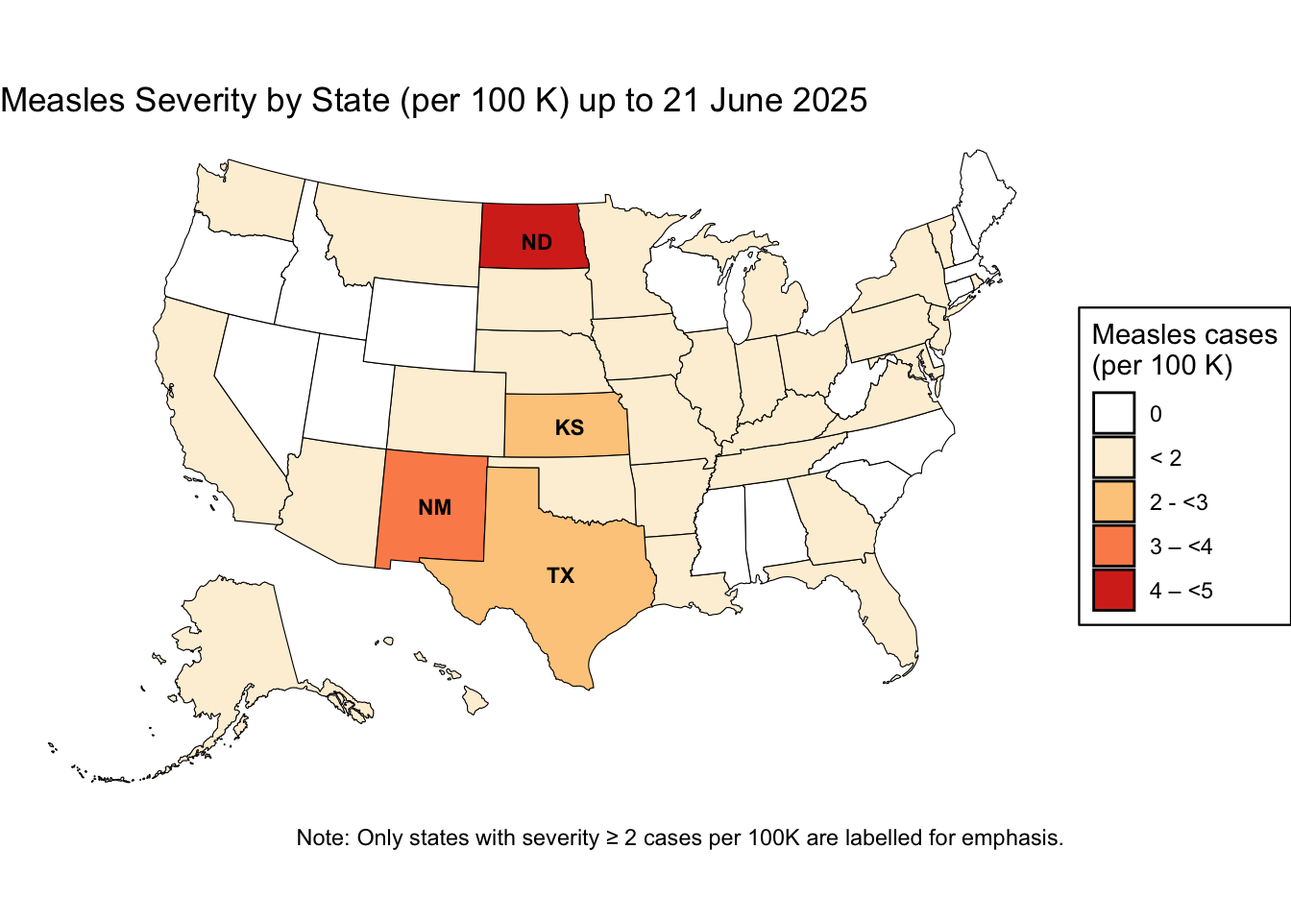
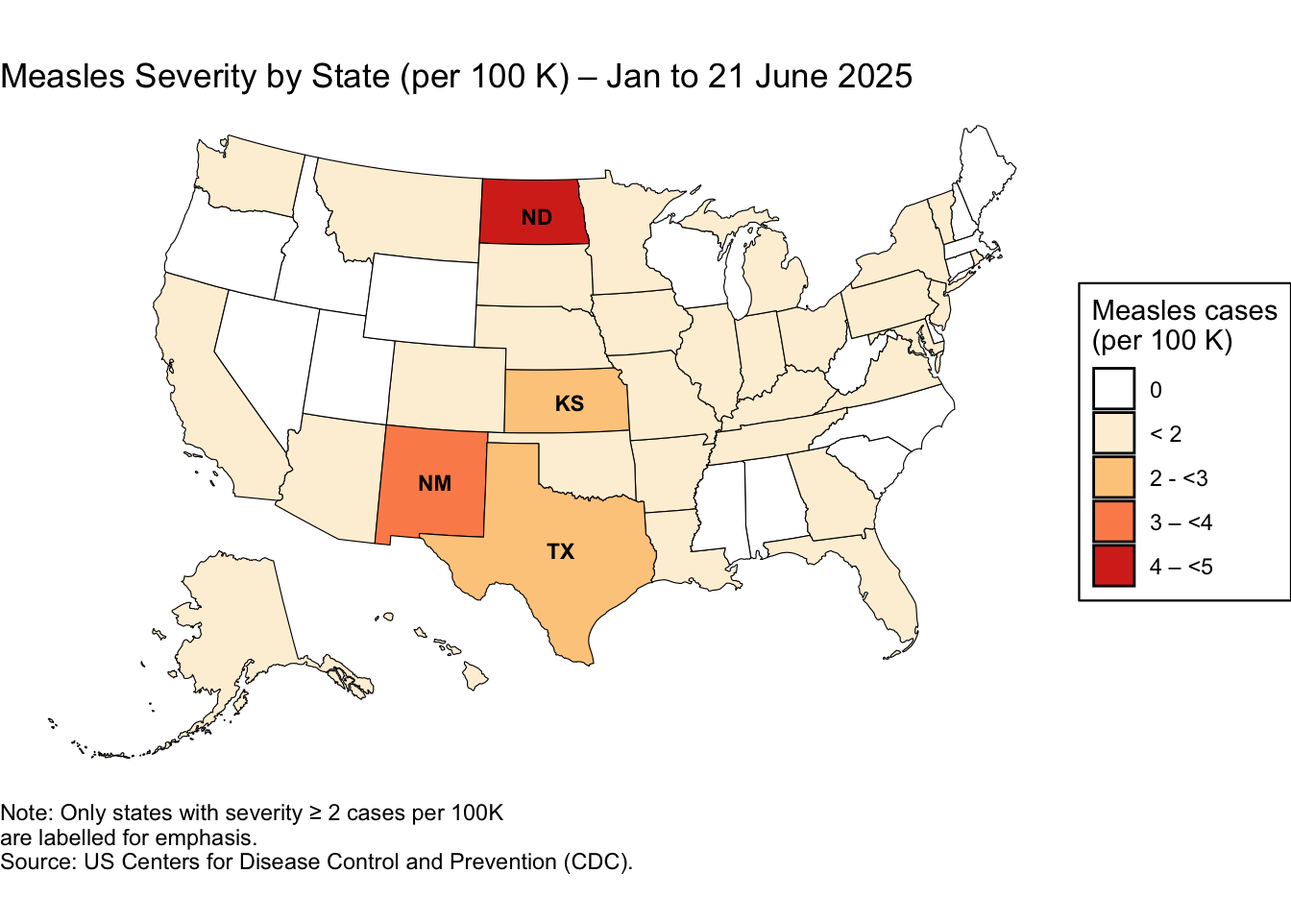
fix: styled and linted

diff --git a/moccasin.html b/moccasin.html
@@ -130,7 +130,7 @@ pre > code.sourceCode > span > a:first-child::before { text-decoration: underlin
 <span id="cb3-4"><a href="#cb3-4" aria-hidden="true" tabindex="-1"></a><span class="fu">library</span>(stringr)</span></code><button title="Copy to Clipboard" class="code-copy-button"><i class="bi"></i></button></pre></div>
 </div>
 <div class="cell">
-<div class="sourceCode cell-code" id="cb4"><pre class="sourceCode r code-with-copy"><code class="sourceCode r"><span id="cb4-1"><a href="#cb4-1" aria-hidden="true" tabindex="-1"></a><span class="fu">library</span>(tidyverse)   <span class="co"># dplyr, readr, stringr, …</span></span>
+<div class="sourceCode cell-code" id="cb4"><pre class="sourceCode r code-with-copy"><code class="sourceCode r"><span id="cb4-1"><a href="#cb4-1" aria-hidden="true" tabindex="-1"></a><span class="fu">library</span>(tidyverse) <span class="co"># dplyr, readr, stringr, …</span></span>
 <span id="cb4-2"><a href="#cb4-2" aria-hidden="true" tabindex="-1"></a><span class="fu">library</span>(readxl)</span>
 <span id="cb4-3"><a href="#cb4-3" aria-hidden="true" tabindex="-1"></a><span class="fu">library</span>(janitor)</span>
 <span id="cb4-4"><a href="#cb4-4" aria-hidden="true" tabindex="-1"></a></span>
@@ -144,46 +144,49 @@ pre > code.sourceCode > span > a:first-child::before { text-decoration: underlin
 <span id="cb4-12"><a href="#cb4-12" aria-hidden="true" tabindex="-1"></a><span class="do">## 2 ── Population ----------------------------------------------------------</span></span>
 <span id="cb4-13"><a href="#cb4-13" aria-hidden="true" tabindex="-1"></a>pop_raw <span class="ot">&lt;-</span></span>
 <span id="cb4-14"><a href="#cb4-14" aria-hidden="true" tabindex="-1"></a>  <span class="fu">read_excel</span>(<span class="st">"SCPRC-EST2024-18+POP.xlsx"</span>,</span>
-<span id="cb4-15"><a href="#cb4-15" aria-hidden="true" tabindex="-1"></a>             <span class="at">skip      =</span> <span class="dv">4</span>,</span>
-<span id="cb4-16"><a href="#cb4-16" aria-hidden="true" tabindex="-1"></a>             <span class="at">col_names =</span> <span class="cn">FALSE</span>)</span>
-<span id="cb4-17"><a href="#cb4-17" aria-hidden="true" tabindex="-1"></a></span>
-<span id="cb4-18"><a href="#cb4-18" aria-hidden="true" tabindex="-1"></a>population_df <span class="ot">&lt;-</span></span>
-<span id="cb4-19"><a href="#cb4-19" aria-hidden="true" tabindex="-1"></a>  <span class="fu">tibble</span>(</span>
-<span id="cb4-20"><a href="#cb4-20" aria-hidden="true" tabindex="-1"></a>    <span class="at">state      =</span> <span class="fu">str_trim</span>(<span class="fu">str_remove</span>(pop_raw[[<span class="dv">1</span>]], <span class="st">"^</span><span class="sc">\\</span><span class="st">.+"</span>)),</span>
-<span id="cb4-21"><a href="#cb4-21" aria-hidden="true" tabindex="-1"></a>    <span class="at">population =</span> <span class="fu">as.numeric</span>(pop_raw[[<span class="dv">2</span>]])</span>
-<span id="cb4-22"><a href="#cb4-22" aria-hidden="true" tabindex="-1"></a>  ) <span class="sc">|&gt;</span></span>
-<span id="cb4-23"><a href="#cb4-23" aria-hidden="true" tabindex="-1"></a>  <span class="fu">filter</span>(<span class="sc">!</span>state <span class="sc">%in%</span> <span class="fu">c</span>(<span class="st">"United States"</span>, <span class="st">"Northeast"</span>, <span class="st">"Midwest"</span>,</span>
-<span id="cb4-24"><a href="#cb4-24" aria-hidden="true" tabindex="-1"></a>                       <span class="st">"South"</span>, <span class="st">"West"</span>, <span class="st">"Puerto Rico"</span>)) <span class="sc">|&gt;</span></span>
-<span id="cb4-25"><a href="#cb4-25" aria-hidden="true" tabindex="-1"></a>  <span class="fu">drop_na</span>(population)</span>
-<span id="cb4-26"><a href="#cb4-26" aria-hidden="true" tabindex="-1"></a></span>
-<span id="cb4-27"><a href="#cb4-27" aria-hidden="true" tabindex="-1"></a><span class="do">## 3 ── Merge &amp; derive severity --------------------------------------------</span></span>
-<span id="cb4-28"><a href="#cb4-28" aria-hidden="true" tabindex="-1"></a>merged_df <span class="ot">&lt;-</span></span>
-<span id="cb4-29"><a href="#cb4-29" aria-hidden="true" tabindex="-1"></a>  population_df <span class="sc">|&gt;</span></span>
-<span id="cb4-30"><a href="#cb4-30" aria-hidden="true" tabindex="-1"></a>  <span class="fu">left_join</span>(measles_df, <span class="at">by =</span> <span class="st">"state"</span>) <span class="sc">|&gt;</span></span>
-<span id="cb4-31"><a href="#cb4-31" aria-hidden="true" tabindex="-1"></a>  <span class="fu">mutate</span>(</span>
-<span id="cb4-32"><a href="#cb4-32" aria-hidden="true" tabindex="-1"></a>    <span class="at">confirmed_cases =</span> <span class="fu">replace_na</span>(confirmed_cases, <span class="dv">0</span>),</span>
-<span id="cb4-33"><a href="#cb4-33" aria-hidden="true" tabindex="-1"></a>    <span class="at">severity        =</span> <span class="fu">round</span>((confirmed_cases <span class="sc">/</span> population) <span class="sc">*</span> <span class="fl">1e5</span>, <span class="dv">2</span>),</span>
-<span id="cb4-34"><a href="#cb4-34" aria-hidden="true" tabindex="-1"></a></span>
-<span id="cb4-35"><a href="#cb4-35" aria-hidden="true" tabindex="-1"></a>    <span class="co"># ---- bucket: 0, &lt;2, 2-&lt;3, 3-&lt;4, 4-&lt;5, ≥5 ----------------------------</span></span>
-<span id="cb4-36"><a href="#cb4-36" aria-hidden="true" tabindex="-1"></a>    <span class="at">severity_bucket =</span> <span class="fu">case_when</span>(</span>
-<span id="cb4-37"><a href="#cb4-37" aria-hidden="true" tabindex="-1"></a>      severity <span class="sc">==</span> <span class="dv">0</span>        <span class="sc">~</span> <span class="st">"0"</span>,</span>
-<span id="cb4-38"><a href="#cb4-38" aria-hidden="true" tabindex="-1"></a>      severity <span class="sc">&lt;</span>  <span class="dv">2</span>        <span class="sc">~</span> <span class="st">"1"</span>,</span>
-<span id="cb4-39"><a href="#cb4-39" aria-hidden="true" tabindex="-1"></a>      severity <span class="sc">&lt;</span>  <span class="dv">3</span>        <span class="sc">~</span> <span class="st">"2"</span>,</span>
-<span id="cb4-40"><a href="#cb4-40" aria-hidden="true" tabindex="-1"></a>      severity <span class="sc">&lt;</span>  <span class="dv">4</span>        <span class="sc">~</span> <span class="st">"3"</span>,</span>
-<span id="cb4-41"><a href="#cb4-41" aria-hidden="true" tabindex="-1"></a>      severity <span class="sc">&lt;</span>  <span class="dv">5</span>        <span class="sc">~</span> <span class="st">"4"</span>,</span>
-<span id="cb4-42"><a href="#cb4-42" aria-hidden="true" tabindex="-1"></a>      <span class="cn">TRUE</span>                 <span class="sc">~</span> <span class="st">"5"</span></span>
-<span id="cb4-43"><a href="#cb4-43" aria-hidden="true" tabindex="-1"></a>    )</span>
-<span id="cb4-44"><a href="#cb4-44" aria-hidden="true" tabindex="-1"></a>  )</span></code><button title="Copy to Clipboard" class="code-copy-button"><i class="bi"></i></button></pre></div>
+<span id="cb4-15"><a href="#cb4-15" aria-hidden="true" tabindex="-1"></a>    <span class="at">skip      =</span> <span class="dv">4</span>,</span>
+<span id="cb4-16"><a href="#cb4-16" aria-hidden="true" tabindex="-1"></a>    <span class="at">col_names =</span> <span class="cn">FALSE</span></span>
+<span id="cb4-17"><a href="#cb4-17" aria-hidden="true" tabindex="-1"></a>  )</span>
+<span id="cb4-18"><a href="#cb4-18" aria-hidden="true" tabindex="-1"></a></span>
+<span id="cb4-19"><a href="#cb4-19" aria-hidden="true" tabindex="-1"></a>population_df <span class="ot">&lt;-</span></span>
+<span id="cb4-20"><a href="#cb4-20" aria-hidden="true" tabindex="-1"></a>  <span class="fu">tibble</span>(</span>
+<span id="cb4-21"><a href="#cb4-21" aria-hidden="true" tabindex="-1"></a>    <span class="at">state      =</span> <span class="fu">str_trim</span>(<span class="fu">str_remove</span>(pop_raw[[<span class="dv">1</span>]], <span class="st">"^</span><span class="sc">\\</span><span class="st">.+"</span>)),</span>
+<span id="cb4-22"><a href="#cb4-22" aria-hidden="true" tabindex="-1"></a>    <span class="at">population =</span> <span class="fu">as.numeric</span>(pop_raw[[<span class="dv">2</span>]])</span>
+<span id="cb4-23"><a href="#cb4-23" aria-hidden="true" tabindex="-1"></a>  ) <span class="sc">|&gt;</span></span>
+<span id="cb4-24"><a href="#cb4-24" aria-hidden="true" tabindex="-1"></a>  <span class="fu">filter</span>(<span class="sc">!</span>state <span class="sc">%in%</span> <span class="fu">c</span>(</span>
+<span id="cb4-25"><a href="#cb4-25" aria-hidden="true" tabindex="-1"></a>    <span class="st">"United States"</span>, <span class="st">"Northeast"</span>, <span class="st">"Midwest"</span>,</span>
+<span id="cb4-26"><a href="#cb4-26" aria-hidden="true" tabindex="-1"></a>    <span class="st">"South"</span>, <span class="st">"West"</span>, <span class="st">"Puerto Rico"</span></span>
+<span id="cb4-27"><a href="#cb4-27" aria-hidden="true" tabindex="-1"></a>  )) <span class="sc">|&gt;</span></span>
+<span id="cb4-28"><a href="#cb4-28" aria-hidden="true" tabindex="-1"></a>  <span class="fu">drop_na</span>(population)</span>
+<span id="cb4-29"><a href="#cb4-29" aria-hidden="true" tabindex="-1"></a></span>
+<span id="cb4-30"><a href="#cb4-30" aria-hidden="true" tabindex="-1"></a><span class="do">## 3 ── Merge &amp; derive severity --------------------------------------------</span></span>
+<span id="cb4-31"><a href="#cb4-31" aria-hidden="true" tabindex="-1"></a>merged_df <span class="ot">&lt;-</span></span>
+<span id="cb4-32"><a href="#cb4-32" aria-hidden="true" tabindex="-1"></a>  population_df <span class="sc">|&gt;</span></span>
+<span id="cb4-33"><a href="#cb4-33" aria-hidden="true" tabindex="-1"></a>  <span class="fu">left_join</span>(measles_df, <span class="at">by =</span> <span class="st">"state"</span>) <span class="sc">|&gt;</span></span>
+<span id="cb4-34"><a href="#cb4-34" aria-hidden="true" tabindex="-1"></a>  <span class="fu">mutate</span>(</span>
+<span id="cb4-35"><a href="#cb4-35" aria-hidden="true" tabindex="-1"></a>    <span class="at">confirmed_cases =</span> <span class="fu">replace_na</span>(confirmed_cases, <span class="dv">0</span>),</span>
+<span id="cb4-36"><a href="#cb4-36" aria-hidden="true" tabindex="-1"></a>    <span class="at">severity =</span> <span class="fu">round</span>((confirmed_cases <span class="sc">/</span> population) <span class="sc">*</span> <span class="fl">1e5</span>, <span class="dv">2</span>),</span>
+<span id="cb4-37"><a href="#cb4-37" aria-hidden="true" tabindex="-1"></a></span>
+<span id="cb4-38"><a href="#cb4-38" aria-hidden="true" tabindex="-1"></a>    <span class="co"># ---- bucket: 0, &lt;2, 2-&lt;3, 3-&lt;4, 4-&lt;5, ≥5 ----------------------------</span></span>
+<span id="cb4-39"><a href="#cb4-39" aria-hidden="true" tabindex="-1"></a>    <span class="at">severity_bucket =</span> <span class="fu">case_when</span>(</span>
+<span id="cb4-40"><a href="#cb4-40" aria-hidden="true" tabindex="-1"></a>      severity <span class="sc">==</span> <span class="dv">0</span> <span class="sc">~</span> <span class="st">"0"</span>,</span>
+<span id="cb4-41"><a href="#cb4-41" aria-hidden="true" tabindex="-1"></a>      severity <span class="sc">&lt;</span> <span class="dv">2</span> <span class="sc">~</span> <span class="st">"1"</span>,</span>
+<span id="cb4-42"><a href="#cb4-42" aria-hidden="true" tabindex="-1"></a>      severity <span class="sc">&lt;</span> <span class="dv">3</span> <span class="sc">~</span> <span class="st">"2"</span>,</span>
+<span id="cb4-43"><a href="#cb4-43" aria-hidden="true" tabindex="-1"></a>      severity <span class="sc">&lt;</span> <span class="dv">4</span> <span class="sc">~</span> <span class="st">"3"</span>,</span>
+<span id="cb4-44"><a href="#cb4-44" aria-hidden="true" tabindex="-1"></a>      severity <span class="sc">&lt;</span> <span class="dv">5</span> <span class="sc">~</span> <span class="st">"4"</span>,</span>
+<span id="cb4-45"><a href="#cb4-45" aria-hidden="true" tabindex="-1"></a>      <span class="cn">TRUE</span> <span class="sc">~</span> <span class="st">"5"</span></span>
+<span id="cb4-46"><a href="#cb4-46" aria-hidden="true" tabindex="-1"></a>    )</span>
+<span id="cb4-47"><a href="#cb4-47" aria-hidden="true" tabindex="-1"></a>  )</span></code><button title="Copy to Clipboard" class="code-copy-button"><i class="bi"></i></button></pre></div>
 </div>
 <div class="cell">
 <div class="sourceCode cell-code" id="cb5"><pre class="sourceCode r code-with-copy"><code class="sourceCode r"><span id="cb5-1"><a href="#cb5-1" aria-hidden="true" tabindex="-1"></a><span class="fu">library</span>(usmap)</span>
 <span id="cb5-2"><a href="#cb5-2" aria-hidden="true" tabindex="-1"></a><span class="fu">library</span>(ggplot2)</span>
 <span id="cb5-3"><a href="#cb5-3" aria-hidden="true" tabindex="-1"></a><span class="fu">library</span>(dplyr)</span>
-<span id="cb5-4"><a href="#cb5-4" aria-hidden="true" tabindex="-1"></a><span class="fu">library</span>(sf)       <span class="co"># for st_coordinates()</span></span>
+<span id="cb5-4"><a href="#cb5-4" aria-hidden="true" tabindex="-1"></a><span class="fu">library</span>(sf) <span class="co"># for st_coordinates()</span></span>
 <span id="cb5-5"><a href="#cb5-5" aria-hidden="true" tabindex="-1"></a><span class="fu">library</span>(scales)</span>
 <span id="cb5-6"><a href="#cb5-6" aria-hidden="true" tabindex="-1"></a></span>
 <span id="cb5-7"><a href="#cb5-7" aria-hidden="true" tabindex="-1"></a><span class="do">## 1 ── US polygons (sf) ----------------------------------------------------</span></span>
-<span id="cb5-8"><a href="#cb5-8" aria-hidden="true" tabindex="-1"></a>map_sf <span class="ot">&lt;-</span> <span class="fu">us_map</span>(<span class="at">regions =</span> <span class="st">"states"</span>)               <span class="co"># sf with geometry column</span></span>
+<span id="cb5-8"><a href="#cb5-8" aria-hidden="true" tabindex="-1"></a>map_sf <span class="ot">&lt;-</span> <span class="fu">us_map</span>(<span class="at">regions =</span> <span class="st">"states"</span>) <span class="co"># sf with geometry column</span></span>
 <span id="cb5-9"><a href="#cb5-9" aria-hidden="true" tabindex="-1"></a></span>
 <span id="cb5-10"><a href="#cb5-10" aria-hidden="true" tabindex="-1"></a><span class="do">## 2 ── Join polygons with severity ----------------------------------------</span></span>
 <span id="cb5-11"><a href="#cb5-11" aria-hidden="true" tabindex="-1"></a>map_merged <span class="ot">&lt;-</span></span>
@@ -204,7 +207,7 @@ pre > code.sourceCode > span > a:first-child::before { text-decoration: underlin
 <span id="cb5-26"><a href="#cb5-26" aria-hidden="true" tabindex="-1"></a>    <span class="at">state =</span> <span class="fu">tolower</span>(state.name),</span>
 <span id="cb5-27"><a href="#cb5-27" aria-hidden="true" tabindex="-1"></a>    <span class="at">abbr  =</span> state.abb</span>
 <span id="cb5-28"><a href="#cb5-28" aria-hidden="true" tabindex="-1"></a>  ) <span class="sc">|&gt;</span></span>
-<span id="cb5-29"><a href="#cb5-29" aria-hidden="true" tabindex="-1"></a>  <span class="fu">usmap_transform</span>()                                 <span class="co"># POINT geometry</span></span>
+<span id="cb5-29"><a href="#cb5-29" aria-hidden="true" tabindex="-1"></a>  <span class="fu">usmap_transform</span>() <span class="co"># POINT geometry</span></span>
 <span id="cb5-30"><a href="#cb5-30" aria-hidden="true" tabindex="-1"></a></span>
 <span id="cb5-31"><a href="#cb5-31" aria-hidden="true" tabindex="-1"></a>label_df <span class="ot">&lt;-</span></span>
 <span id="cb5-32"><a href="#cb5-32" aria-hidden="true" tabindex="-1"></a>  centers_sf <span class="sc">|&gt;</span></span>
@@ -222,50 +225,63 @@ pre > code.sourceCode > span > a:first-child::before { text-decoration: underlin
 <span id="cb5-44"><a href="#cb5-44" aria-hidden="true" tabindex="-1"></a>  )</span>
 <span id="cb5-45"><a href="#cb5-45" aria-hidden="true" tabindex="-1"></a></span>
 <span id="cb5-46"><a href="#cb5-46" aria-hidden="true" tabindex="-1"></a><span class="do">## 4 ── Colour palette incl. “0” bucket ------------------------------------</span></span>
-<span id="cb5-47"><a href="#cb5-47" aria-hidden="true" tabindex="-1"></a>pal <span class="ot">&lt;-</span> <span class="fu">c</span>(<span class="st">"0"</span> <span class="ot">=</span> <span class="st">"#ffffff"</span>,   <span class="co"># white for 0-case states (now shows in legend)</span></span>
-<span id="cb5-48"><a href="#cb5-48" aria-hidden="true" tabindex="-1"></a>         <span class="st">"1"</span> <span class="ot">=</span> <span class="st">"#fef0d9"</span>,</span>
-<span id="cb5-49"><a href="#cb5-49" aria-hidden="true" tabindex="-1"></a>         <span class="st">"2"</span> <span class="ot">=</span> <span class="st">"#fdcc8a"</span>,</span>
-<span id="cb5-50"><a href="#cb5-50" aria-hidden="true" tabindex="-1"></a>         <span class="st">"3"</span> <span class="ot">=</span> <span class="st">"#fc8d59"</span>,</span>
-<span id="cb5-51"><a href="#cb5-51" aria-hidden="true" tabindex="-1"></a>         <span class="st">"4"</span> <span class="ot">=</span> <span class="st">"#d7301f"</span>,</span>
-<span id="cb5-52"><a href="#cb5-52" aria-hidden="true" tabindex="-1"></a>         <span class="st">"5"</span> <span class="ot">=</span> <span class="st">"#b30000"</span>)</span>
-<span id="cb5-53"><a href="#cb5-53" aria-hidden="true" tabindex="-1"></a></span>
-<span id="cb5-54"><a href="#cb5-54" aria-hidden="true" tabindex="-1"></a><span class="do">## 5 ── Plot ---------------------------------------------------------------</span></span>
-<span id="cb5-55"><a href="#cb5-55" aria-hidden="true" tabindex="-1"></a><span class="fu">ggplot</span>(map_merged) <span class="sc">+</span></span>
-<span id="cb5-56"><a href="#cb5-56" aria-hidden="true" tabindex="-1"></a>  <span class="fu">geom_sf</span>(<span class="fu">aes</span>(<span class="at">fill =</span> severity_bucket),</span>
-<span id="cb5-57"><a href="#cb5-57" aria-hidden="true" tabindex="-1"></a>          <span class="at">colour =</span> <span class="st">"black"</span>, <span class="at">size =</span> <span class="fl">0.4</span>) <span class="sc">+</span>                    <span class="co"># black borders</span></span>
-<span id="cb5-58"><a href="#cb5-58" aria-hidden="true" tabindex="-1"></a>  <span class="fu">scale_fill_manual</span>(</span>
-<span id="cb5-59"><a href="#cb5-59" aria-hidden="true" tabindex="-1"></a>    <span class="at">values   =</span> pal,</span>
-<span id="cb5-60"><a href="#cb5-60" aria-hidden="true" tabindex="-1"></a>    <span class="at">na.value =</span> <span class="st">"grey90"</span>,</span>
-<span id="cb5-61"><a href="#cb5-61" aria-hidden="true" tabindex="-1"></a>    <span class="at">drop     =</span> <span class="cn">FALSE</span>,</span>
-<span id="cb5-62"><a href="#cb5-62" aria-hidden="true" tabindex="-1"></a>    <span class="at">name     =</span> <span class="st">"Measles cases</span><span class="sc">\n</span><span class="st">(per 100 K)"</span>,</span>
-<span id="cb5-63"><a href="#cb5-63" aria-hidden="true" tabindex="-1"></a>    <span class="at">breaks   =</span> <span class="fu">c</span>(<span class="st">"0"</span>,<span class="st">"1"</span>,<span class="st">"2"</span>,<span class="st">"3"</span>,<span class="st">"4"</span>,<span class="st">"5"</span>),</span>
-<span id="cb5-64"><a href="#cb5-64" aria-hidden="true" tabindex="-1"></a>    <span class="at">labels   =</span> <span class="fu">c</span>(<span class="st">"0"</span>,</span>
-<span id="cb5-65"><a href="#cb5-65" aria-hidden="true" tabindex="-1"></a>                 <span class="st">"&lt; 2"</span>,</span>
-<span id="cb5-66"><a href="#cb5-66" aria-hidden="true" tabindex="-1"></a>                 <span class="st">"2 - &lt;3"</span>,</span>
-<span id="cb5-67"><a href="#cb5-67" aria-hidden="true" tabindex="-1"></a>                 <span class="st">"3 – &lt;4"</span>,</span>
-<span id="cb5-68"><a href="#cb5-68" aria-hidden="true" tabindex="-1"></a>                 <span class="st">"4 – &lt;5"</span>,</span>
-<span id="cb5-69"><a href="#cb5-69" aria-hidden="true" tabindex="-1"></a>                 <span class="st">"≥ 5"</span>)</span>
-<span id="cb5-70"><a href="#cb5-70" aria-hidden="true" tabindex="-1"></a>  ) <span class="sc">+</span></span>
-<span id="cb5-71"><a href="#cb5-71" aria-hidden="true" tabindex="-1"></a>  <span class="fu">geom_text</span>(</span>
-<span id="cb5-72"><a href="#cb5-72" aria-hidden="true" tabindex="-1"></a>    <span class="at">data        =</span> label_df,</span>
-<span id="cb5-73"><a href="#cb5-73" aria-hidden="true" tabindex="-1"></a>    <span class="fu">aes</span>(<span class="at">x =</span> x, <span class="at">y =</span> y, <span class="at">label =</span> abbr),</span>
-<span id="cb5-74"><a href="#cb5-74" aria-hidden="true" tabindex="-1"></a>    <span class="at">inherit.aes =</span> <span class="cn">FALSE</span>,</span>
-<span id="cb5-75"><a href="#cb5-75" aria-hidden="true" tabindex="-1"></a>    <span class="at">fontface    =</span> <span class="st">"bold"</span>,</span>
-<span id="cb5-76"><a href="#cb5-76" aria-hidden="true" tabindex="-1"></a>    <span class="at">size        =</span> <span class="dv">3</span></span>
-<span id="cb5-77"><a href="#cb5-77" aria-hidden="true" tabindex="-1"></a>  ) <span class="sc">+</span></span>
-<span id="cb5-78"><a href="#cb5-78" aria-hidden="true" tabindex="-1"></a>  <span class="fu">coord_sf</span>() <span class="sc">+</span></span>
-<span id="cb5-79"><a href="#cb5-79" aria-hidden="true" tabindex="-1"></a>  <span class="fu">theme_void</span>() <span class="sc">+</span></span>
-<span id="cb5-80"><a href="#cb5-80" aria-hidden="true" tabindex="-1"></a>  <span class="fu">theme</span>(</span>
-<span id="cb5-81"><a href="#cb5-81" aria-hidden="true" tabindex="-1"></a>    <span class="at">legend.position   =</span> <span class="st">"right"</span>,</span>
-<span id="cb5-82"><a href="#cb5-82" aria-hidden="true" tabindex="-1"></a>    <span class="at">legend.background =</span> <span class="fu">element_rect</span>(<span class="at">colour =</span> <span class="st">"black"</span>,</span>
-<span id="cb5-83"><a href="#cb5-83" aria-hidden="true" tabindex="-1"></a>                                     <span class="at">fill   =</span> <span class="st">"white"</span>,</span>
-<span id="cb5-84"><a href="#cb5-84" aria-hidden="true" tabindex="-1"></a>                                     <span class="at">linewidth =</span> <span class="fl">0.4</span>),</span>
-<span id="cb5-85"><a href="#cb5-85" aria-hidden="true" tabindex="-1"></a>    <span class="at">legend.margin     =</span> <span class="fu">margin</span>(<span class="dv">5</span>, <span class="dv">5</span>, <span class="dv">5</span>, <span class="dv">5</span>)</span>
-<span id="cb5-86"><a href="#cb5-86" aria-hidden="true" tabindex="-1"></a>  ) <span class="sc">+</span></span>
-<span id="cb5-87"><a href="#cb5-87" aria-hidden="true" tabindex="-1"></a>  <span class="fu">labs</span>(</span>
-<span id="cb5-88"><a href="#cb5-88" aria-hidden="true" tabindex="-1"></a>    <span class="at">title   =</span> <span class="st">"Measles Severity by State (per 100 K) up to 21 June 2025"</span>,</span>
-<span id="cb5-89"><a href="#cb5-89" aria-hidden="true" tabindex="-1"></a>    <span class="at">caption =</span> <span class="st">"Note: Only states with severity ≥ 2 cases per 100K are labelled for emphasis."</span></span>
-<span id="cb5-90"><a href="#cb5-90" aria-hidden="true" tabindex="-1"></a>  )</span></code><button title="Copy to Clipboard" class="code-copy-button"><i class="bi"></i></button></pre></div>
+<span id="cb5-47"><a href="#cb5-47" aria-hidden="true" tabindex="-1"></a>pal <span class="ot">&lt;-</span> <span class="fu">c</span>(</span>
+<span id="cb5-48"><a href="#cb5-48" aria-hidden="true" tabindex="-1"></a>  <span class="st">"0"</span> <span class="ot">=</span> <span class="st">"#ffffff"</span>, <span class="co"># white for 0-case states (now shows in legend)</span></span>
+<span id="cb5-49"><a href="#cb5-49" aria-hidden="true" tabindex="-1"></a>  <span class="st">"1"</span> <span class="ot">=</span> <span class="st">"#fef0d9"</span>,</span>
+<span id="cb5-50"><a href="#cb5-50" aria-hidden="true" tabindex="-1"></a>  <span class="st">"2"</span> <span class="ot">=</span> <span class="st">"#fdcc8a"</span>,</span>
+<span id="cb5-51"><a href="#cb5-51" aria-hidden="true" tabindex="-1"></a>  <span class="st">"3"</span> <span class="ot">=</span> <span class="st">"#fc8d59"</span>,</span>
+<span id="cb5-52"><a href="#cb5-52" aria-hidden="true" tabindex="-1"></a>  <span class="st">"4"</span> <span class="ot">=</span> <span class="st">"#d7301f"</span>,</span>
+<span id="cb5-53"><a href="#cb5-53" aria-hidden="true" tabindex="-1"></a>  <span class="st">"5"</span> <span class="ot">=</span> <span class="st">"#b30000"</span></span>
+<span id="cb5-54"><a href="#cb5-54" aria-hidden="true" tabindex="-1"></a>)</span>
+<span id="cb5-55"><a href="#cb5-55" aria-hidden="true" tabindex="-1"></a></span>
+<span id="cb5-56"><a href="#cb5-56" aria-hidden="true" tabindex="-1"></a><span class="do">## 5 ── Plot ---------------------------------------------------------------</span></span>
+<span id="cb5-57"><a href="#cb5-57" aria-hidden="true" tabindex="-1"></a><span class="fu">ggplot</span>(map_merged) <span class="sc">+</span></span>
+<span id="cb5-58"><a href="#cb5-58" aria-hidden="true" tabindex="-1"></a>  <span class="fu">geom_sf</span>(<span class="fu">aes</span>(<span class="at">fill =</span> severity_bucket),</span>
+<span id="cb5-59"><a href="#cb5-59" aria-hidden="true" tabindex="-1"></a>    <span class="at">colour =</span> <span class="st">"black"</span>, <span class="at">size =</span> <span class="fl">0.4</span></span>
+<span id="cb5-60"><a href="#cb5-60" aria-hidden="true" tabindex="-1"></a>  ) <span class="sc">+</span> <span class="co"># black borders</span></span>
+<span id="cb5-61"><a href="#cb5-61" aria-hidden="true" tabindex="-1"></a>  <span class="fu">scale_fill_manual</span>(</span>
+<span id="cb5-62"><a href="#cb5-62" aria-hidden="true" tabindex="-1"></a>    <span class="at">values =</span> pal,</span>
+<span id="cb5-63"><a href="#cb5-63" aria-hidden="true" tabindex="-1"></a>    <span class="at">na.value =</span> <span class="st">"grey90"</span>,</span>
+<span id="cb5-64"><a href="#cb5-64" aria-hidden="true" tabindex="-1"></a>    <span class="at">drop =</span> <span class="cn">FALSE</span>,</span>
+<span id="cb5-65"><a href="#cb5-65" aria-hidden="true" tabindex="-1"></a>    <span class="at">name =</span> <span class="st">"Measles cases</span><span class="sc">\n</span><span class="st">(per 100 K)"</span>,</span>
+<span id="cb5-66"><a href="#cb5-66" aria-hidden="true" tabindex="-1"></a>    <span class="at">breaks =</span> <span class="fu">c</span>(<span class="st">"0"</span>, <span class="st">"1"</span>, <span class="st">"2"</span>, <span class="st">"3"</span>, <span class="st">"4"</span>, <span class="st">"5"</span>),</span>
+<span id="cb5-67"><a href="#cb5-67" aria-hidden="true" tabindex="-1"></a>    <span class="at">labels =</span> <span class="fu">c</span>(</span>
+<span id="cb5-68"><a href="#cb5-68" aria-hidden="true" tabindex="-1"></a>      <span class="st">"0"</span>,</span>
+<span id="cb5-69"><a href="#cb5-69" aria-hidden="true" tabindex="-1"></a>      <span class="st">"&lt; 2"</span>,</span>
+<span id="cb5-70"><a href="#cb5-70" aria-hidden="true" tabindex="-1"></a>      <span class="st">"2 - &lt;3"</span>,</span>
+<span id="cb5-71"><a href="#cb5-71" aria-hidden="true" tabindex="-1"></a>      <span class="st">"3 – &lt;4"</span>,</span>
+<span id="cb5-72"><a href="#cb5-72" aria-hidden="true" tabindex="-1"></a>      <span class="st">"4 – &lt;5"</span>,</span>
+<span id="cb5-73"><a href="#cb5-73" aria-hidden="true" tabindex="-1"></a>      <span class="st">"≥ 5"</span></span>
+<span id="cb5-74"><a href="#cb5-74" aria-hidden="true" tabindex="-1"></a>    )</span>
+<span id="cb5-75"><a href="#cb5-75" aria-hidden="true" tabindex="-1"></a>  ) <span class="sc">+</span></span>
+<span id="cb5-76"><a href="#cb5-76" aria-hidden="true" tabindex="-1"></a>  <span class="fu">geom_text</span>(</span>
+<span id="cb5-77"><a href="#cb5-77" aria-hidden="true" tabindex="-1"></a>    <span class="at">data =</span> label_df,</span>
+<span id="cb5-78"><a href="#cb5-78" aria-hidden="true" tabindex="-1"></a>    <span class="fu">aes</span>(<span class="at">x =</span> x, <span class="at">y =</span> y, <span class="at">label =</span> abbr),</span>
+<span id="cb5-79"><a href="#cb5-79" aria-hidden="true" tabindex="-1"></a>    <span class="at">inherit.aes =</span> <span class="cn">FALSE</span>,</span>
+<span id="cb5-80"><a href="#cb5-80" aria-hidden="true" tabindex="-1"></a>    <span class="at">fontface =</span> <span class="st">"bold"</span>,</span>
+<span id="cb5-81"><a href="#cb5-81" aria-hidden="true" tabindex="-1"></a>    <span class="at">size =</span> <span class="dv">3</span></span>
+<span id="cb5-82"><a href="#cb5-82" aria-hidden="true" tabindex="-1"></a>  ) <span class="sc">+</span></span>
+<span id="cb5-83"><a href="#cb5-83" aria-hidden="true" tabindex="-1"></a>  <span class="fu">coord_sf</span>() <span class="sc">+</span></span>
+<span id="cb5-84"><a href="#cb5-84" aria-hidden="true" tabindex="-1"></a>  <span class="fu">theme_void</span>() <span class="sc">+</span></span>
+<span id="cb5-85"><a href="#cb5-85" aria-hidden="true" tabindex="-1"></a>  <span class="fu">theme</span>(</span>
+<span id="cb5-86"><a href="#cb5-86" aria-hidden="true" tabindex="-1"></a>    <span class="at">legend.position =</span> <span class="st">"right"</span>,</span>
+<span id="cb5-87"><a href="#cb5-87" aria-hidden="true" tabindex="-1"></a>    <span class="at">legend.background =</span> <span class="fu">element_rect</span>(</span>
+<span id="cb5-88"><a href="#cb5-88" aria-hidden="true" tabindex="-1"></a>      <span class="at">colour =</span> <span class="st">"black"</span>,</span>
+<span id="cb5-89"><a href="#cb5-89" aria-hidden="true" tabindex="-1"></a>      <span class="at">fill =</span> <span class="st">"white"</span>,</span>
+<span id="cb5-90"><a href="#cb5-90" aria-hidden="true" tabindex="-1"></a>      <span class="at">linewidth =</span> <span class="fl">0.4</span></span>
+<span id="cb5-91"><a href="#cb5-91" aria-hidden="true" tabindex="-1"></a>    ),</span>
+<span id="cb5-92"><a href="#cb5-92" aria-hidden="true" tabindex="-1"></a>    <span class="at">legend.margin =</span> <span class="fu">margin</span>(<span class="dv">5</span>, <span class="dv">5</span>, <span class="dv">5</span>, <span class="dv">5</span>),</span>
+<span id="cb5-93"><a href="#cb5-93" aria-hidden="true" tabindex="-1"></a>    <span class="at">plot.caption.position =</span> <span class="st">"plot"</span>,</span>
+<span id="cb5-94"><a href="#cb5-94" aria-hidden="true" tabindex="-1"></a>    <span class="at">plot.caption =</span> <span class="fu">element_text</span>(<span class="at">hjust =</span> <span class="dv">0</span>),</span>
+<span id="cb5-95"><a href="#cb5-95" aria-hidden="true" tabindex="-1"></a>  ) <span class="sc">+</span></span>
+<span id="cb5-96"><a href="#cb5-96" aria-hidden="true" tabindex="-1"></a>  <span class="fu">labs</span>(</span>
+<span id="cb5-97"><a href="#cb5-97" aria-hidden="true" tabindex="-1"></a>    <span class="at">title =</span> <span class="st">"Measles Severity by State (per 100 K) – Jan to 21 June 2025"</span>,</span>
+<span id="cb5-98"><a href="#cb5-98" aria-hidden="true" tabindex="-1"></a>    <span class="at">caption =</span> <span class="fu">paste0</span>(</span>
+<span id="cb5-99"><a href="#cb5-99" aria-hidden="true" tabindex="-1"></a>      <span class="st">"Note: Only states with severity ≥ 2 cases per 100K</span><span class="sc">\n</span><span class="st">"</span>,</span>
+<span id="cb5-100"><a href="#cb5-100" aria-hidden="true" tabindex="-1"></a>      <span class="st">"are labelled for emphasis.</span><span class="sc">\n</span><span class="st">"</span>,</span>
+<span id="cb5-101"><a href="#cb5-101" aria-hidden="true" tabindex="-1"></a>      <span class="st">"Source: US Centers for Disease Control and Prevention (CDC)."</span></span>
+<span id="cb5-102"><a href="#cb5-102" aria-hidden="true" tabindex="-1"></a>    )</span>
+<span id="cb5-103"><a href="#cb5-103" aria-hidden="true" tabindex="-1"></a>  )</span></code><button title="Copy to Clipboard" class="code-copy-button"><i class="bi"></i></button></pre></div>
 <div class="cell-output-display">
 <div>
 <figure class="figure">
